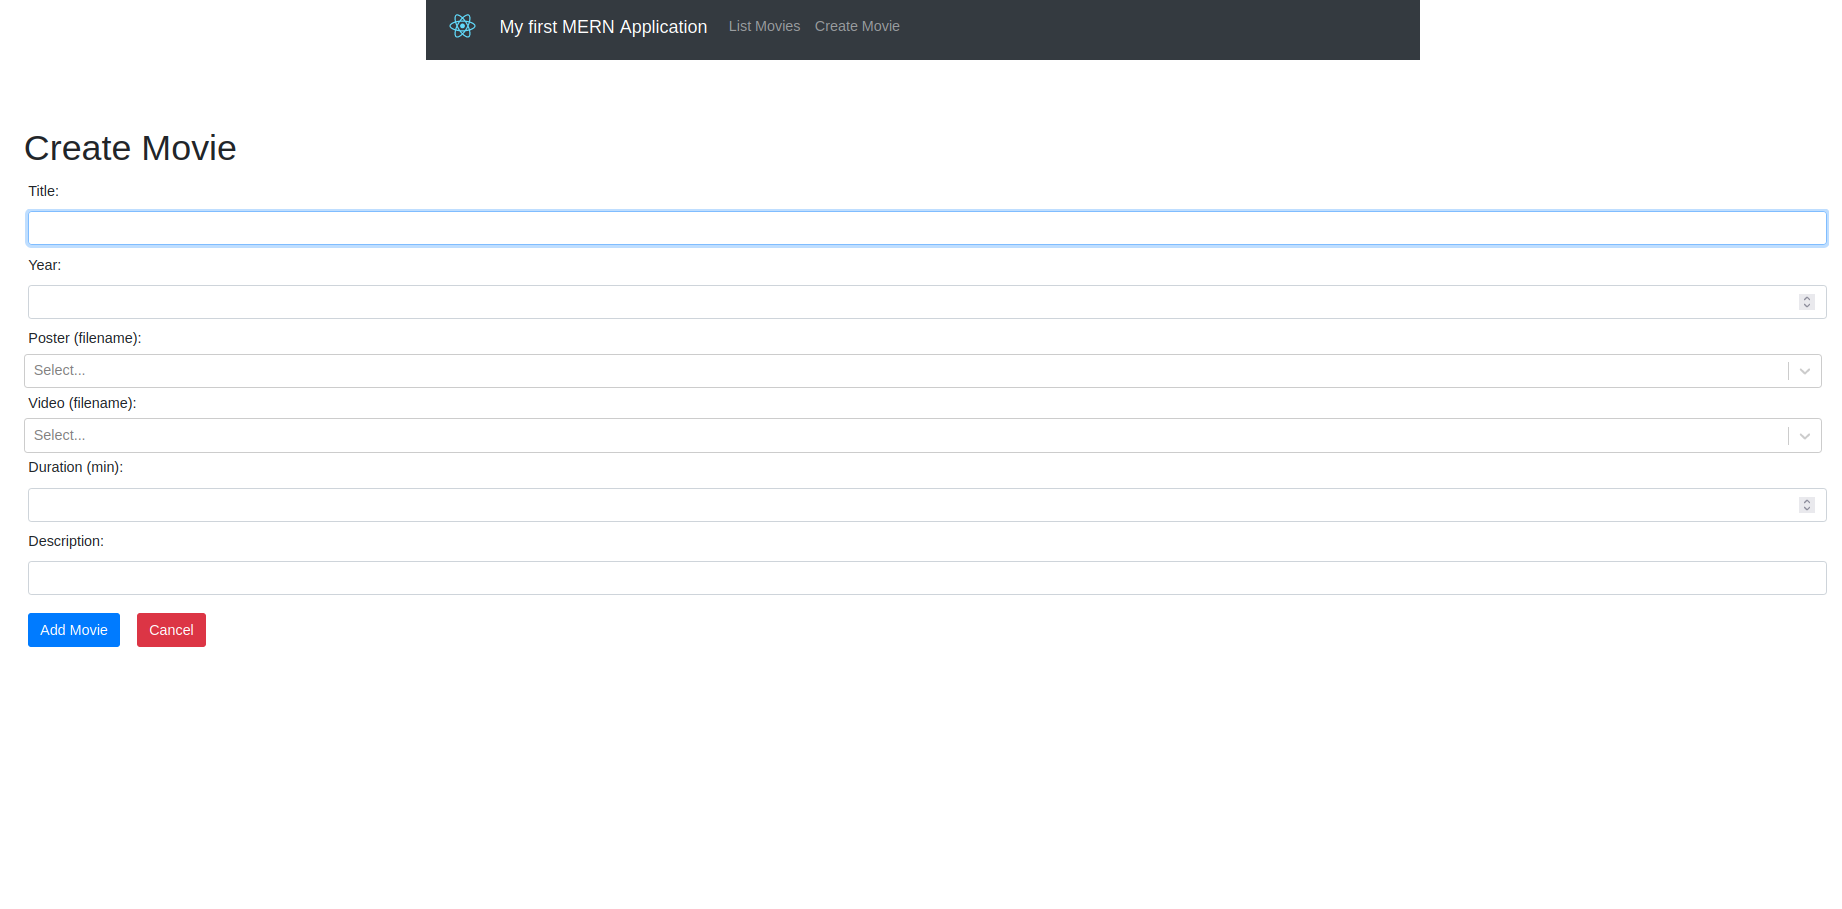
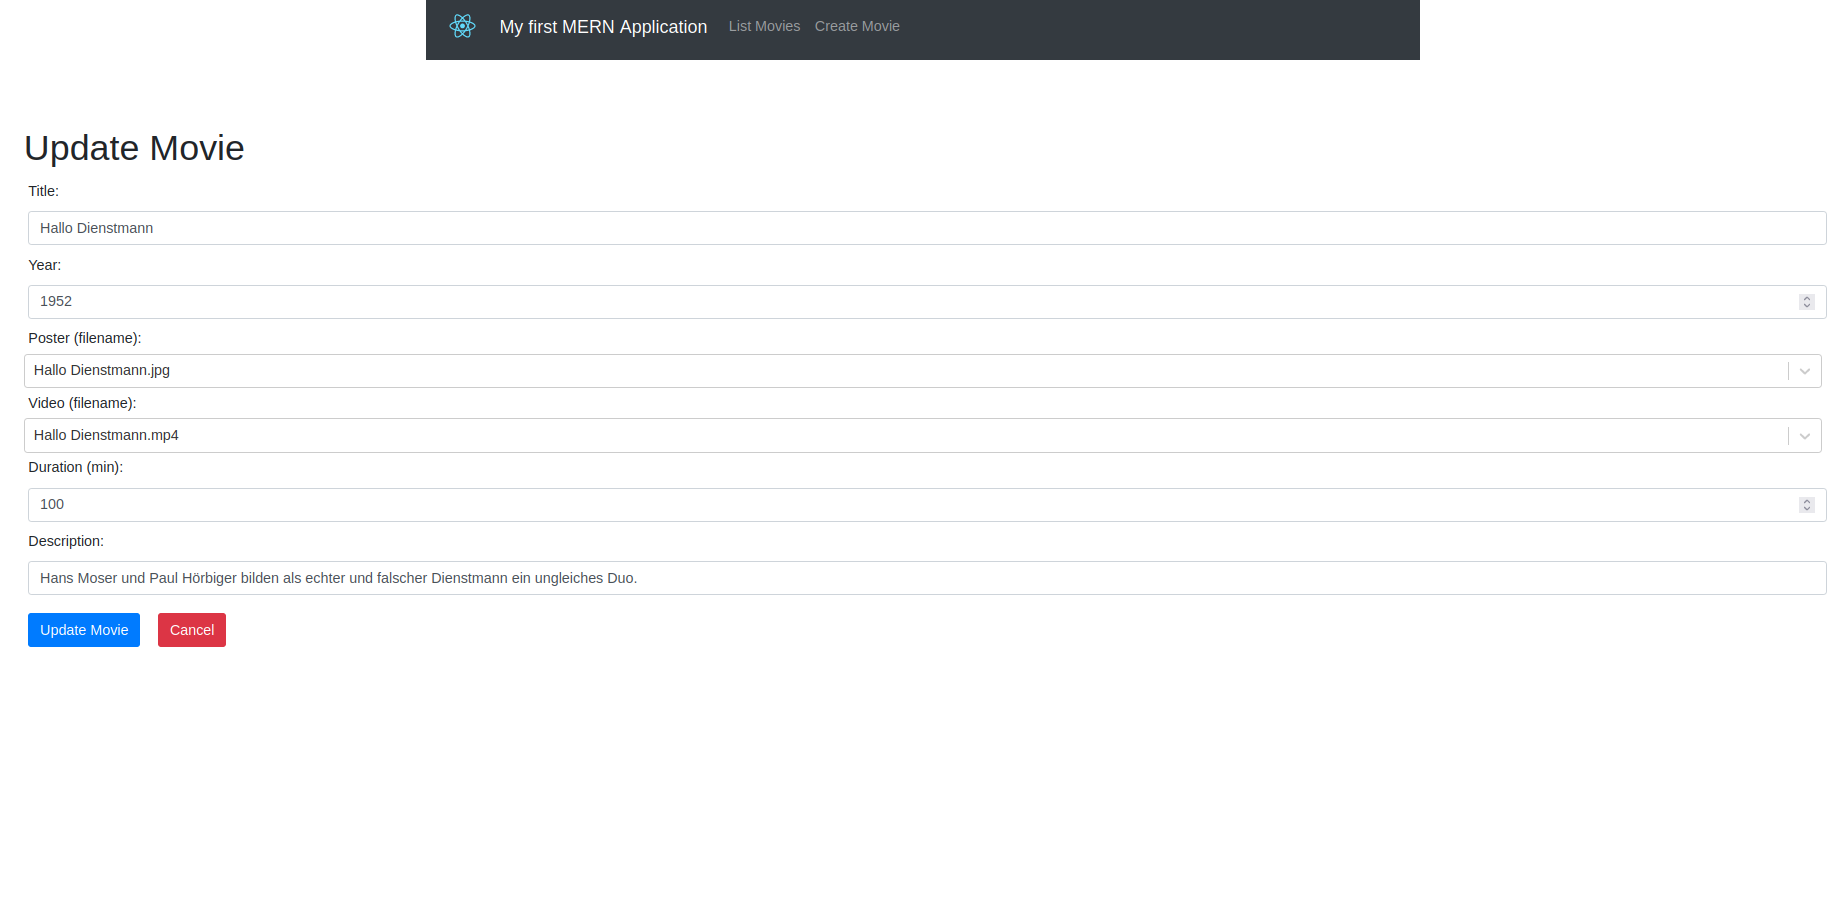
updated README.md

diff --git a/README.md b/README.md
@@ -1,8 +1,8 @@
 # Senior Movie Selector
 
-|`client`|`db_client` list|`db_client` create|`db_client` create(2)|
-|------|-----------|-----------|-----------|
-|![](.images/client.png)|![](.images/db_client_1.png)|![](.images/db_client_2.png)|![](.images/db_client_3.png)
+| `client` | `db_client` list | `db_client` update | `db_client` create | `db_client` create(2) |
+|----------|------------------|--------------------|--------------------|-----------------------|
+| ![The UI of the main client](.images/client.png) | ![The start page of the db_client which shows the current entries in the database](.images/db_client_1.png) | ![](.images/db_client_2.png) | ![](.images/db_client_3.png) | ![](.images/db_client_3.png) |
 
 ## Start
 
